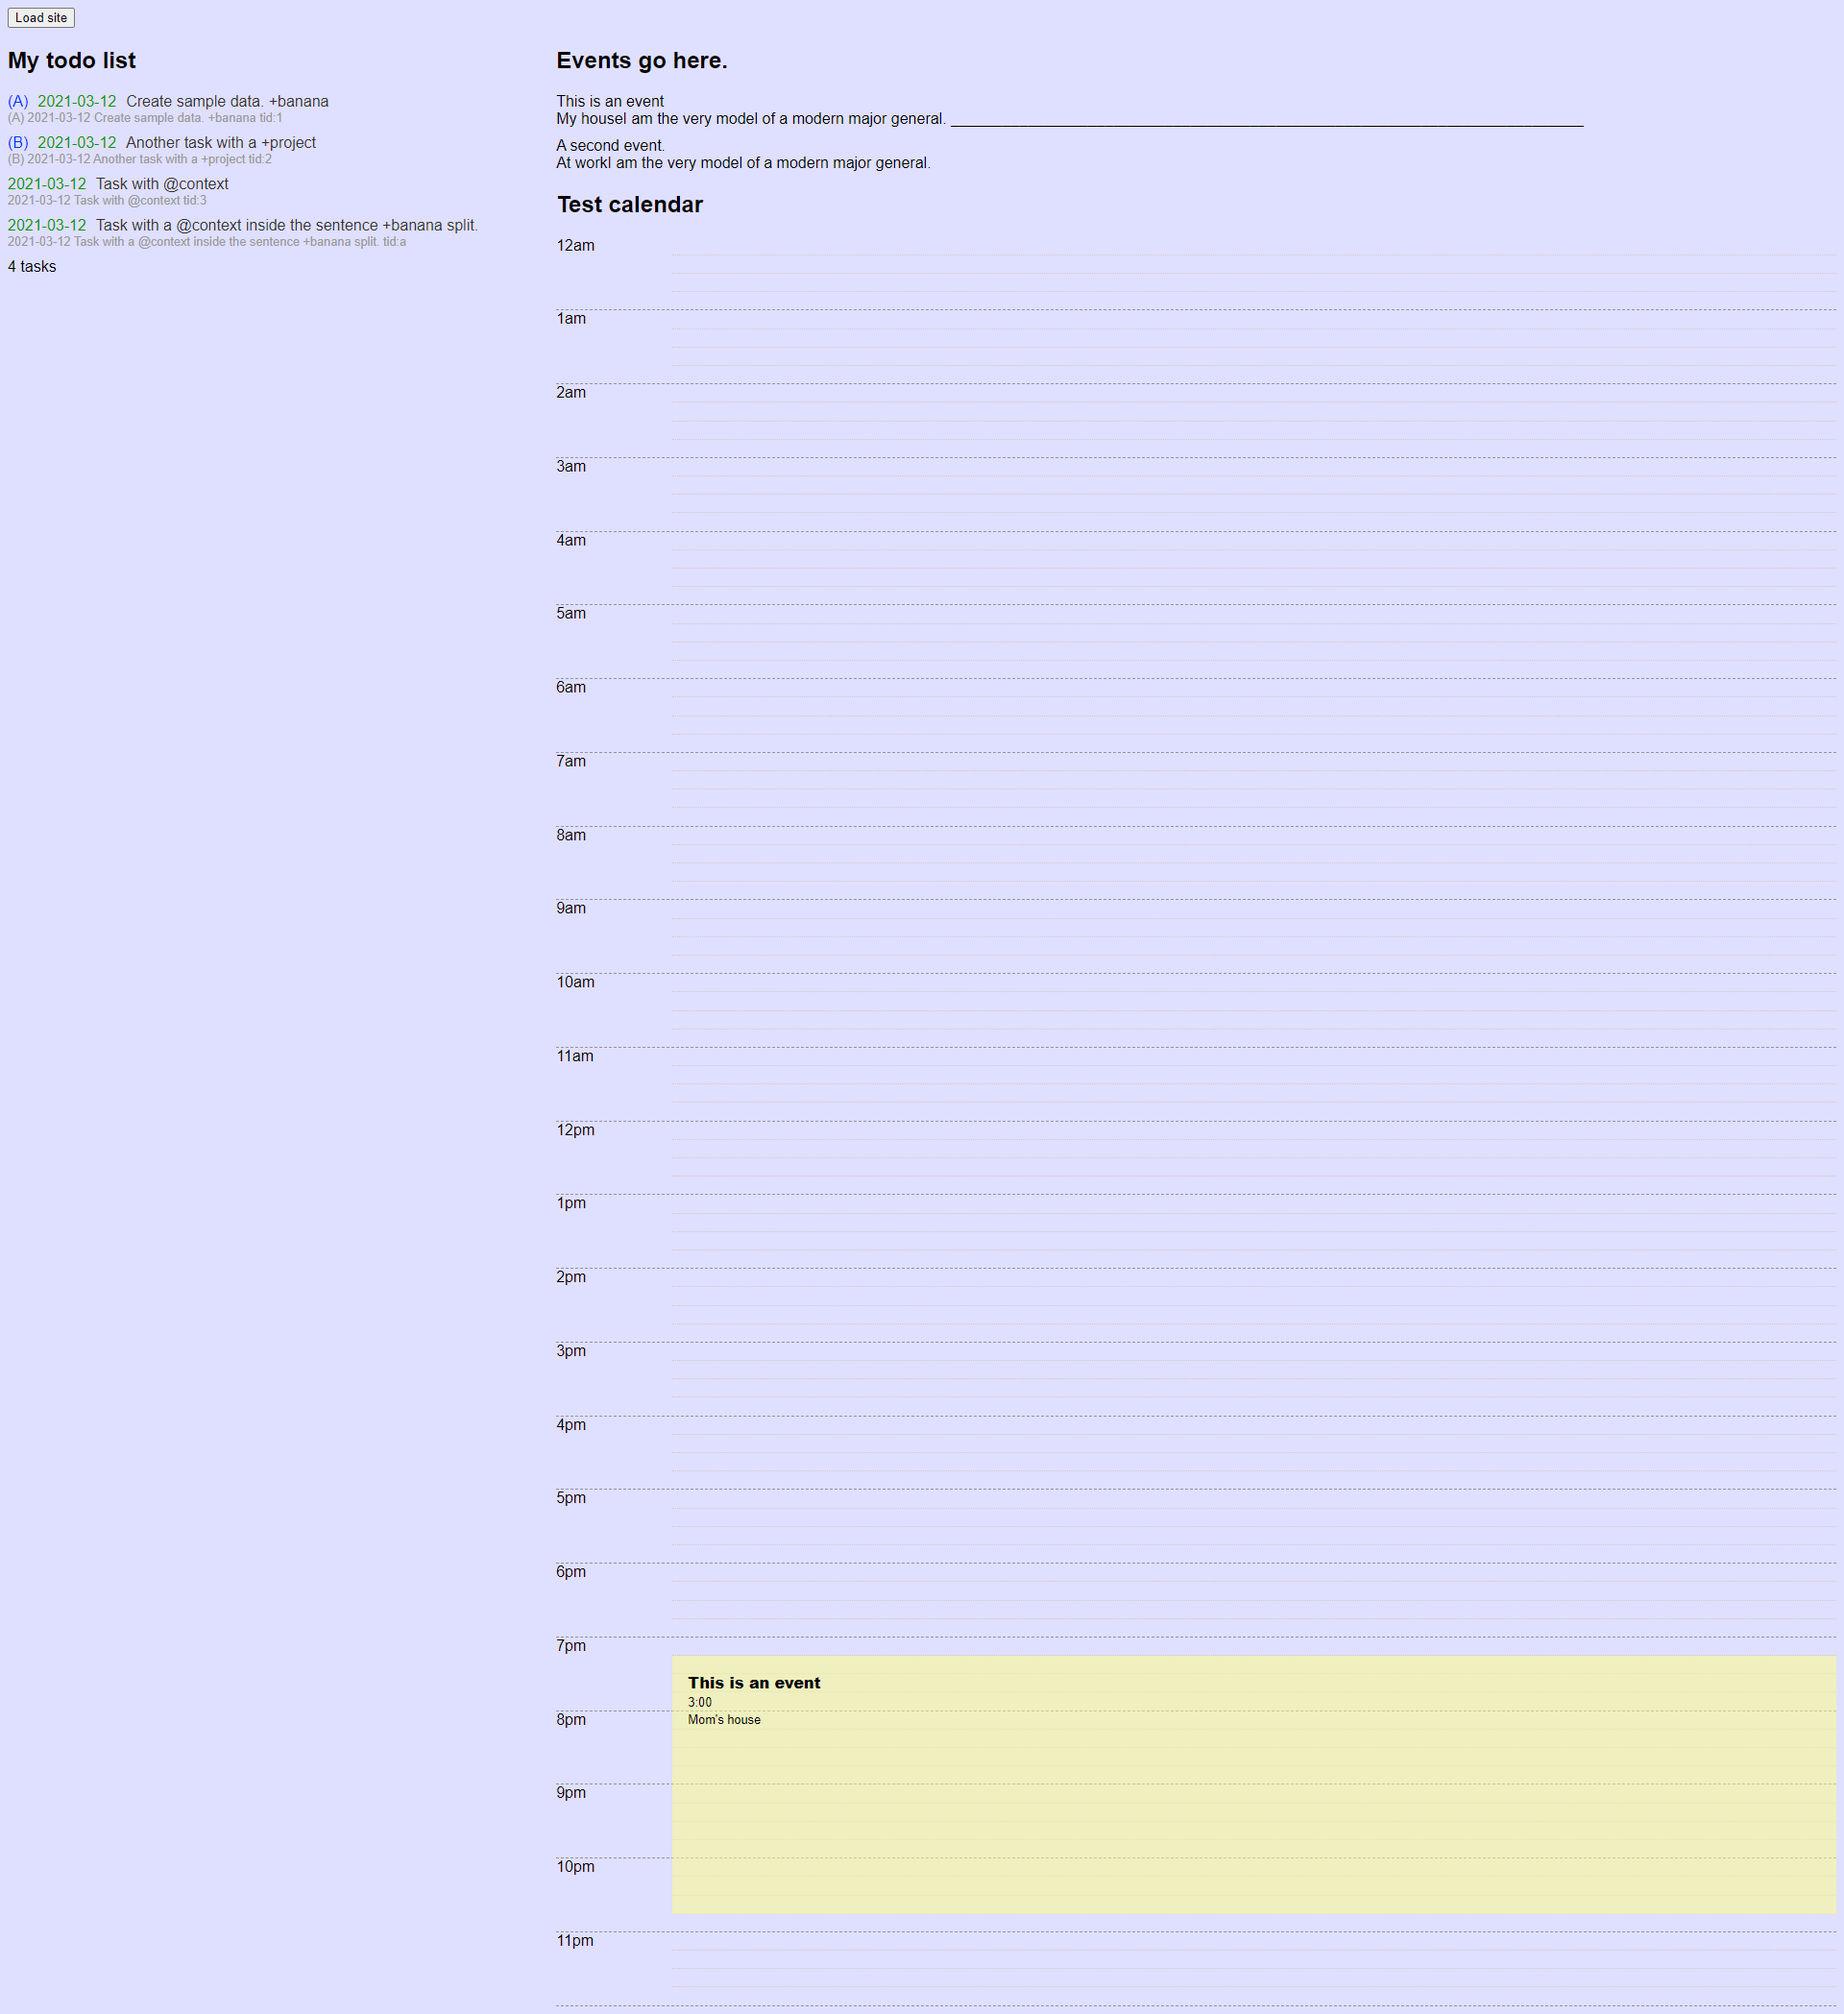
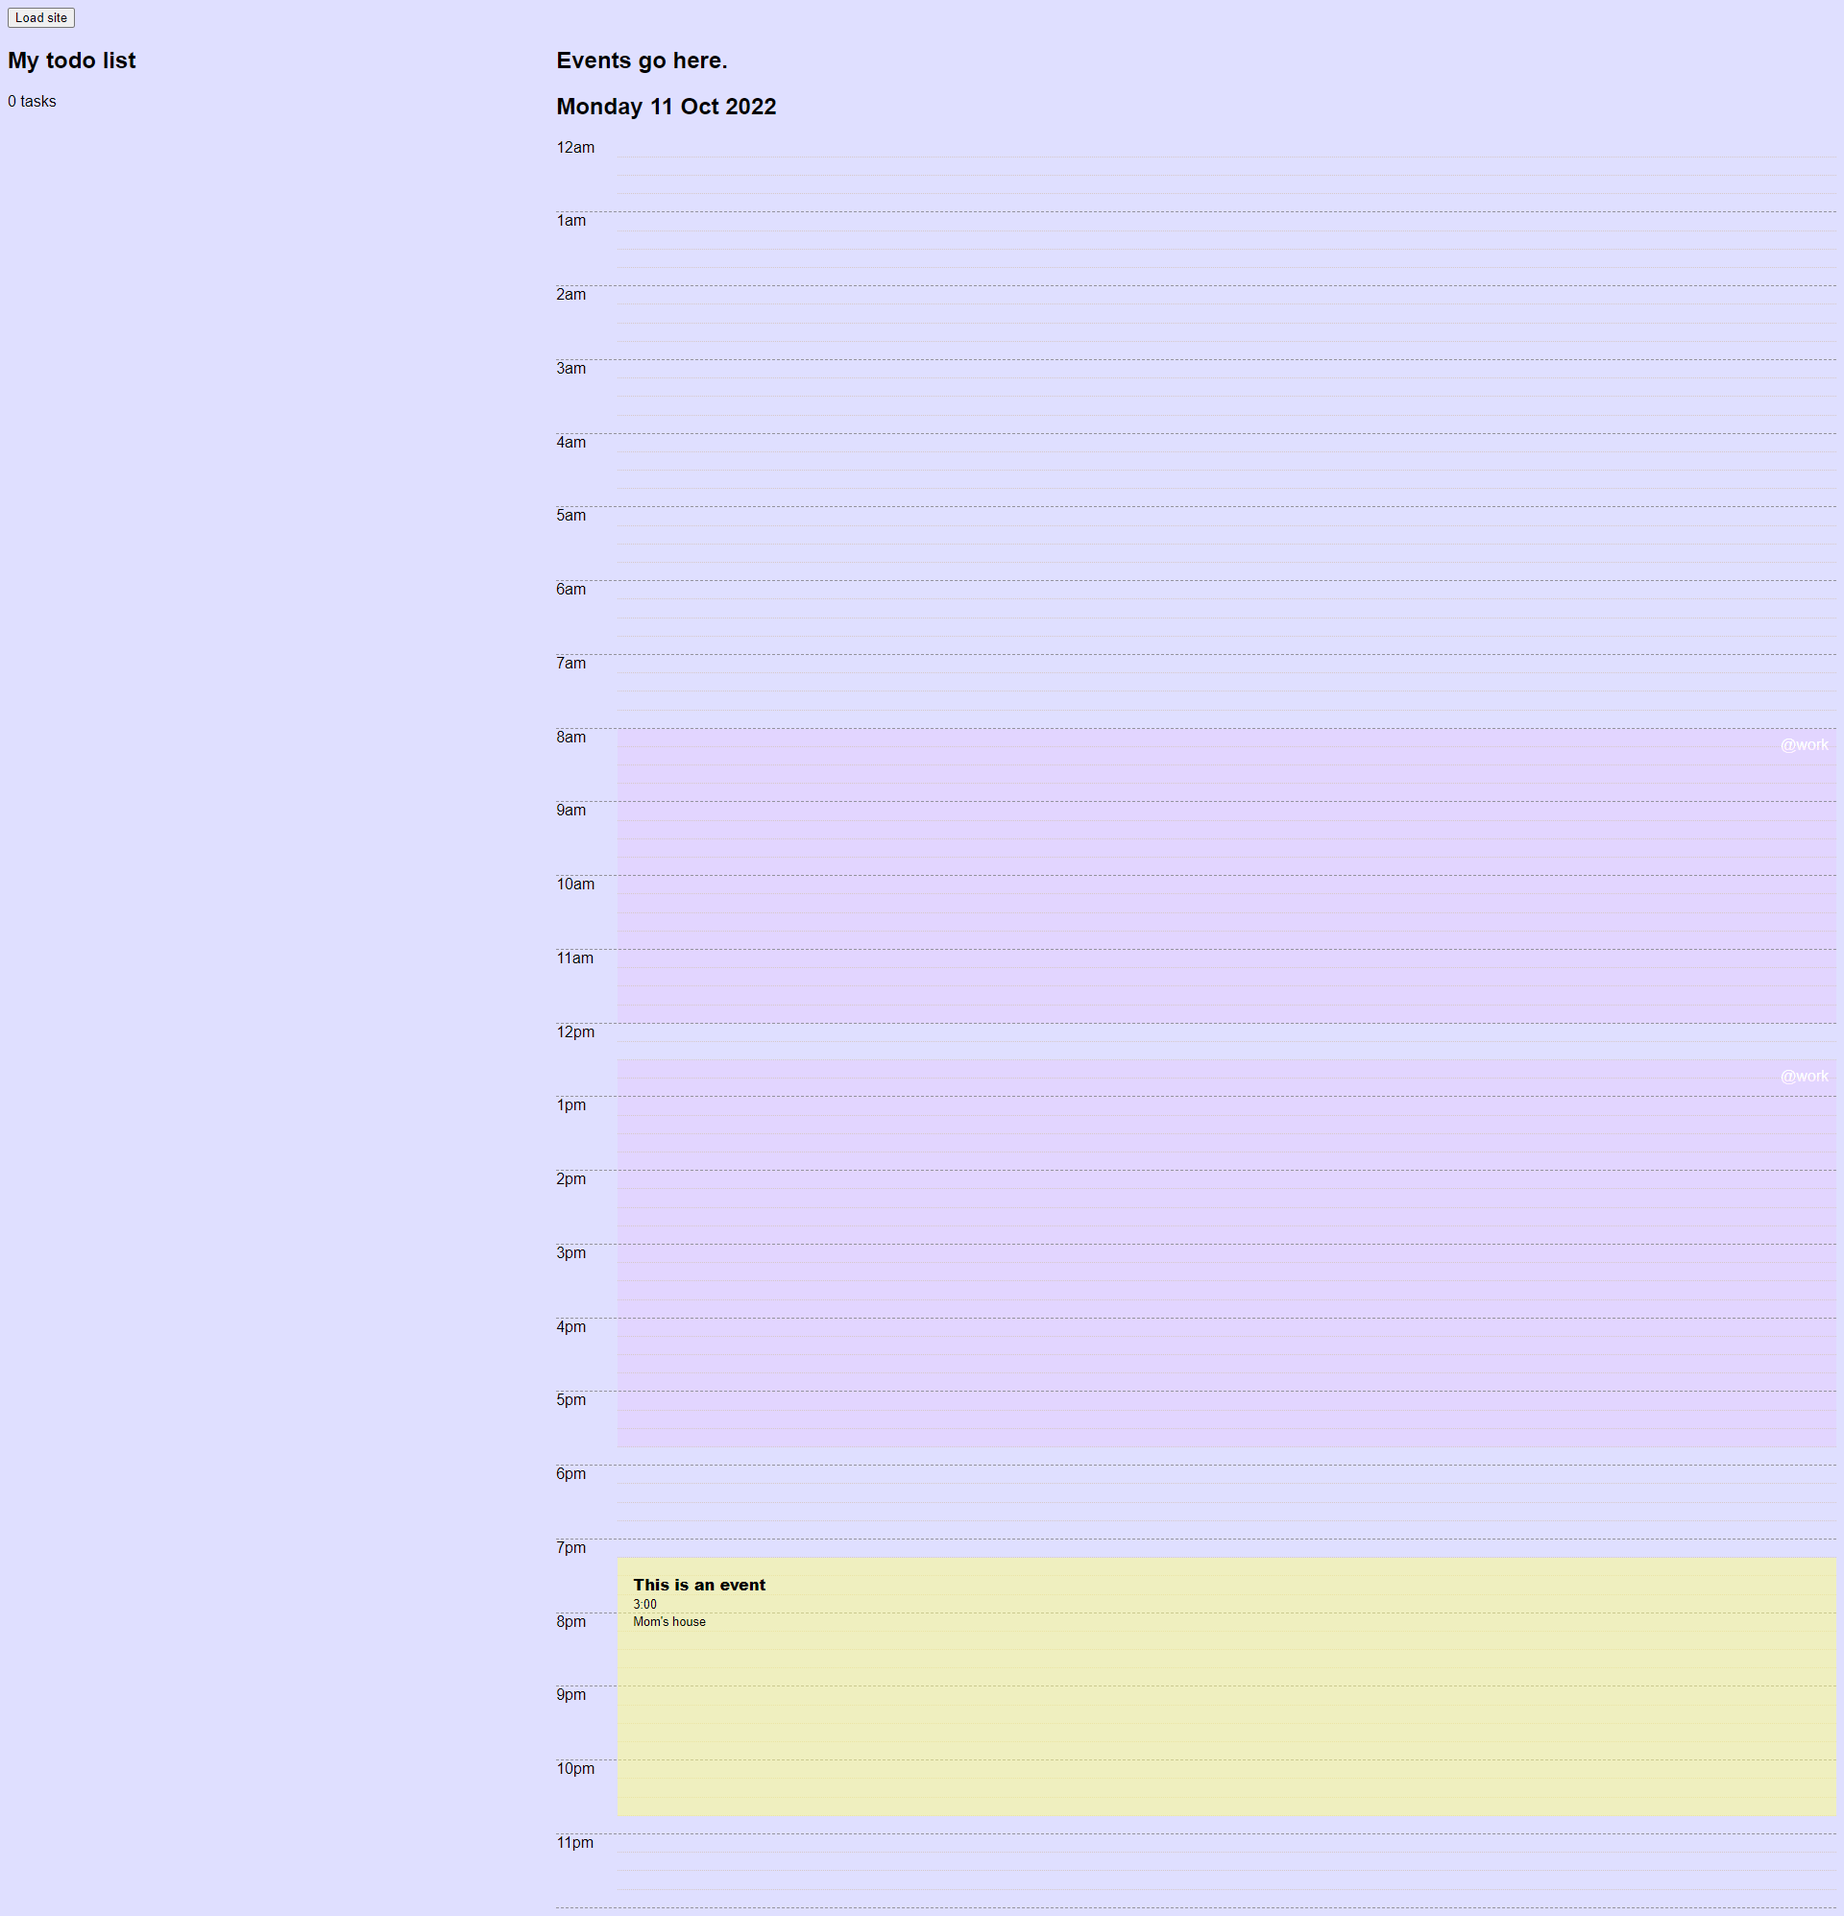
Added demo of @work context block

diff --git a/src/components/CalendarEvents.js b/src/components/CalendarEvents.js
@@ -22,7 +22,7 @@ class CalendarEvents extends React.Component {
                         <CalendarEvent key={key} id={key} details={this.props.calendarEvents[key]} />
                     ))}
                 </EventList>
-                <h2>Test calendar</h2>
+                <h2>Monday 11 Oct 2022</h2>
                 <div class="day">
                     {/*<!-- divs for the 15-minute increments -->*/}
                     <div class="time t0000"></div>
@@ -57,45 +57,45 @@ class CalendarEvents extends React.Component {
                     <div class="time t0715"></div>
                     <div class="time t0730"></div>
                     <div class="time timelast t0745"></div>
-                    <div class="time t0800"></div>
-                    <div class="time t0815"></div>
-                    <div class="time t0830"></div>
-                    <div class="time timelast t0845"></div>
-                    <div class="time t0900"></div>
-                    <div class="time t0915"></div>
-                    <div class="time t0930"></div>
-                    <div class="time timelast t0945"></div>
-                    <div class="time t1000"></div>
-                    <div class="time t1015"></div>
-                    <div class="time t1030"></div>
-                    <div class="time timelast t1045"></div>
-                    <div class="time t1100"></div>
-                    <div class="time t1115"></div>
-                    <div class="time t1130"></div>
-                    <div class="time timelast t1145"></div>
+                    <div class="time work first t0800"><div class="contextWork">@work</div></div>
+                    <div class="time work t0815"></div>
+                    <div class="time work t0830"></div>
+                    <div class="time work timelast t0845"></div>
+                    <div class="time work t0900"><div class="contextWork">@work</div></div>
+                    <div class="time work t0915"></div>
+                    <div class="time work t0930"></div>
+                    <div class="time work timelast t0945"></div>
+                    <div class="time work t1000"></div>
+                    <div class="time work t1015"></div>
+                    <div class="time work t1030"></div>
+                    <div class="time work timelast t1045"></div>
+                    <div class="time work t1100"></div>
+                    <div class="time work t1115"></div>
+                    <div class="time work t1130"></div>
+                    <div class="time work timelast t1145"></div>
                     <div class="time t1200"></div>
                     <div class="time t1215"></div>
-                    <div class="time t1230"></div>
-                    <div class="time timelast t1245"></div>
-                    <div class="time t1300"></div>
-                    <div class="time t1315"></div>
-                    <div class="time t1330"></div>
-                    <div class="time timelast t1345"></div>
-                    <div class="time t1400"></div>
-                    <div class="time t1415"></div>
-                    <div class="time t1430"></div>
-                    <div class="time timelast t1445"></div>
-                    <div class="time t1500"></div>
-                    <div class="time t1515"></div>
-                    <div class="time t1530"></div>
-                    <div class="time timelast t1545"></div>
-                    <div class="time t1600"></div>
-                    <div class="time t1615"></div>
-                    <div class="time t1630"></div>
-                    <div class="time timelast t1645"></div>
-                    <div class="time t1700"></div>
-                    <div class="time t1715"></div>
-                    <div class="time t1730"></div>
+                    <div class="time work first t1230"><div class="contextWork">@work</div></div>
+                    <div class="time work timelast t1245"></div>
+                    <div class="time work t1300"></div>
+                    <div class="time work t1315"></div>
+                    <div class="time work t1330"></div>
+                    <div class="time work timelast t1345"></div>
+                    <div class="time work t1400"></div>
+                    <div class="time work t1415"></div>
+                    <div class="time work t1430"></div>
+                    <div class="time work timelast t1445"></div>
+                    <div class="time work t1500"></div>
+                    <div class="time work t1515"></div>
+                    <div class="time work t1530"></div>
+                    <div class="time work timelast t1545"></div>
+                    <div class="time work t1600"></div>
+                    <div class="time work t1615"></div>
+                    <div class="time work t1630"></div>
+                    <div class="time work timelast t1645"></div>
+                    <div class="time work t1700"></div>
+                    <div class="time work t1715"></div>
+                    <div class="time work t1730"></div>
                     <div class="time timelast t1745"></div>
                     <div class="time t1800"></div>
                     <div class="time t1815"></div>

diff --git a/src/css/style.scss b/src/css/style.scss
@@ -20,7 +20,7 @@ body {
 
 .day {
   display: grid;
-  grid-template-columns: .1fr 1fr;
+  grid-template-columns: 4rem 1fr;
   grid-auto-rows: 1.2rem;
   gap: 0px 0px;
   grid-auto-flow: row;
@@ -211,4 +211,15 @@ body {
   .title {font-weight: 800;}
   .duration { margin-top: .1rem; margin-bottom: .1rem; font-size: .8rem; padding-bottom: .1rem; }
   .location { margin-top: .1rem; margin-bottom: .1rem; font-size: .8rem; padding-top: 0.05px;}
+}
+
+.work {background-color: rgba(255, 128, 255, .1)}
+
+.contextWork {display: none;}
+.work.first .contextWork { 
+  color: rgba(255, 255, 255, 1); 
+  display: block; 
+  float: right;  
+  margin-top: .5rem; 
+  margin-right: .5rem; 
 }
